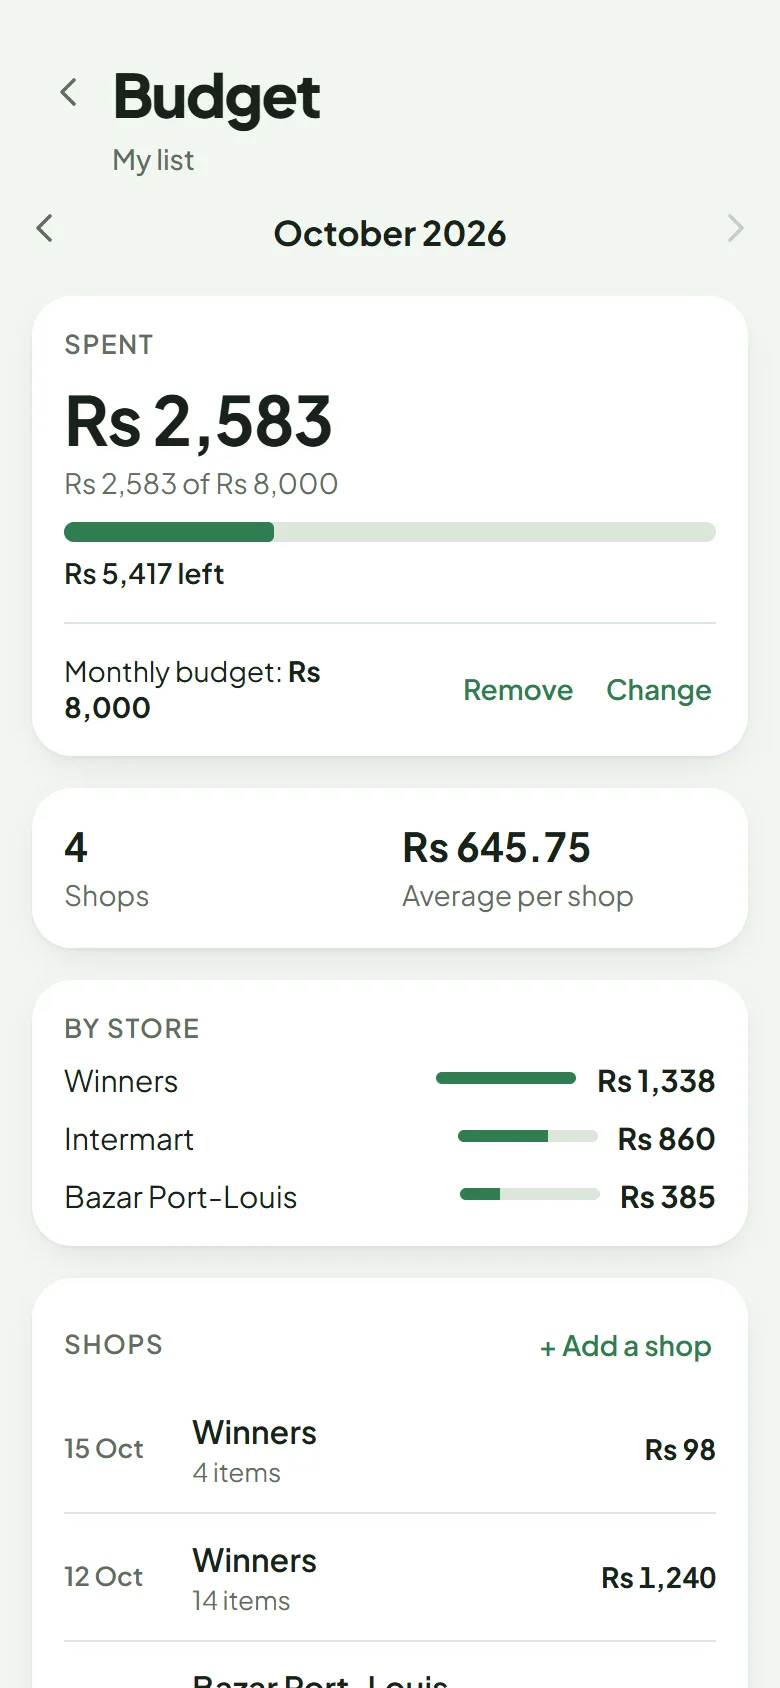
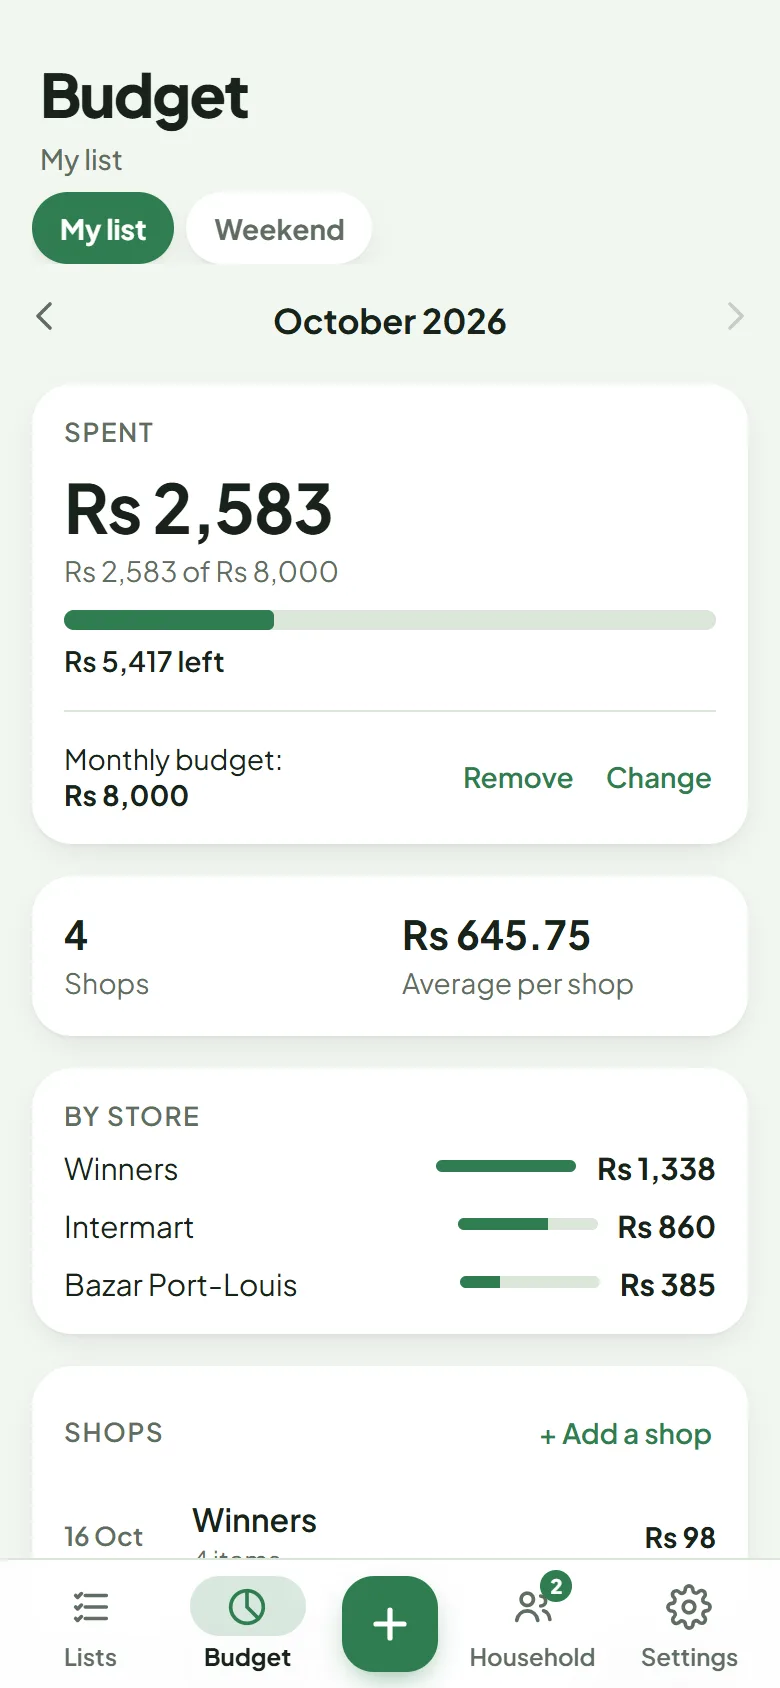
Refresh the demo tour for bottom tabs and the + button
Capture script follows the new navigation; captions updated in all three
languages.

diff --git a/public/demo/index.html b/public/demo/index.html
@@ -394,14 +394,14 @@
           scenes: {
             code: ['Get in', 'Open the link and enter your tester code.'],
             list: ['Your list, sorted by aisle', 'Items are grouped the way you walk through the shop, with prices and the total.'],
-            type: ['Add things fast', 'Type "Cheese 200g" and tap Add. Zeste fills in the amount for you.'],
+            type: ['One + for everything', 'Tap + and type "Cheese 200g". Zeste fills in the amount. New lists and shops are here too.'],
             added: ['It finds the right aisle', 'Cheese goes straight into Dairy & eggs. Tap any item to change it.'],
             edit: ['Prices and quantities', 'Set how much, the price per kg or the total, and the category.'],
             tick: ['Tick as you shop', "Ticked items move to Bought. When you're done, tap Done shopping."],
             done: ['Save the shop', 'Check what you paid and where. The bought items clear from your list.'],
             saved: ['Your budget updates', "The bar at the top shows how much of this month's budget you've used."],
             budget: ['See your month', 'Spending per shop and per store, and how much is left.'],
-            share: ['Shop together', 'Send an invite link. Everyone on the list sees changes instantly.'],
+            share: ['Shop together', 'In the Household tab, send an invite link. Everyone sees changes instantly.'],
             settings: ['Make it yours', 'Pick English, Français or Kreol, and Green, Lagoon or Coral, in light or dark.'],
           },
         },
@@ -413,14 +413,14 @@
           scenes: {
             code: ['Entrer', 'Ouvrez le lien et saisissez votre code testeur.'],
             list: ['Votre liste, rangée par rayon', 'Les articles sont groupés comme dans le magasin, avec les prix et le total.'],
-            type: ['Ajoutez vite', 'Tapez « Fromage 200g » puis Ajouter. Zeste remplit la quantité pour vous.'],
+            type: ['Un seul + pour tout', 'Touchez + et tapez « Fromage 200g ». Zeste remplit la quantité. Nouvelles listes et courses aussi.'],
             added: ['Le bon rayon, tout seul', 'Le fromage va directement dans Laitier & œufs. Touchez un article pour le modifier.'],
             edit: ['Prix et quantités', 'Indiquez la quantité, le prix au kg ou le total, et la catégorie.'],
             tick: ['Cochez en faisant vos courses', 'Les articles cochés passent dans Acheté. À la fin, touchez Courses terminées.'],
             done: ['Enregistrez la course', 'Vérifiez le montant payé et le magasin. Les articles achetés quittent la liste.'],
             saved: ['Le budget se met à jour', 'La barre en haut montre la part du budget du mois déjà utilisée.'],
             budget: ["Votre mois en un coup d'œil", "Dépenses par course et par magasin, et ce qu'il reste."],
-            share: ['Les courses à plusieurs', "Envoyez un lien d'invitation. Tout le monde voit les changements en direct."],
+            share: ['Les courses à plusieurs', "Dans l'onglet Foyer, envoyez un lien d'invitation. Tout le monde voit les changements en direct."],
             settings: ['À votre goût', 'Choisissez English, Français ou Kreol, et Vert, Lagon ou Corail, en clair ou sombre.'],
           },
         },
@@ -432,14 +432,14 @@
           scenes: {
             code: ['Rantre', 'Ouver lien-la ek rant ou kod testeur.'],
             list: ['Ou lalis, klase par rayon', 'Bann zafer groupe kouma dan magazin, avek pri ek total.'],
-            type: ['Ajoute vit', 'Tap "Fromaz 200g" ek tous Ajoute. Zeste ranpli kantite-la pou ou.'],
+            type: ['Enn sel + pou tou', 'Tous + ek tap "Fromaz 200g". Zeste ranpli kantite-la. Nouvo lalis ek komisyon osi la.'],
             added: ['Li trouv bon rayon tousel', 'Fromaz al direk dan Dile ek dizef. Tous enn zafer pou sanz li.'],
             edit: ['Pri ek kantite', 'Met kantite, pri par kg ouswa total, ek kategori.'],
             tick: ['Tik pandan ou fer komisyon', 'Bann zafer tike al dan Finn aste. Kan ou fini, tous Fini fer komisyon.'],
             done: ['Sov komisyon-la', 'Verifie konbien ou finn peye ek kot. Bann zafer aste tir lor lalis.'],
             saved: ['Bidze met li azour', 'Bar lao montre konbien ou finn servi dan bidze sa mwa-la.'],
             budget: ['Get ou mwa', 'Depans par komisyon ek par magazin, ek konbien res.'],
-            share: ['Fer komisyon ansam', 'Avoy enn lien invitasion. Tou dimoun trouv bann sanzman an direk.'],
+            share: ['Fer komisyon ansam', 'Dan Fami, avoy enn lien invitasion. Tou dimoun trouv bann sanzman an direk.'],
             settings: ['Fer li pou ou', 'Swazir English, Français ouswa Kreol, ek Ver, Lagon ouswa Koray, kler ouswa nwar.'],
           },
         },
